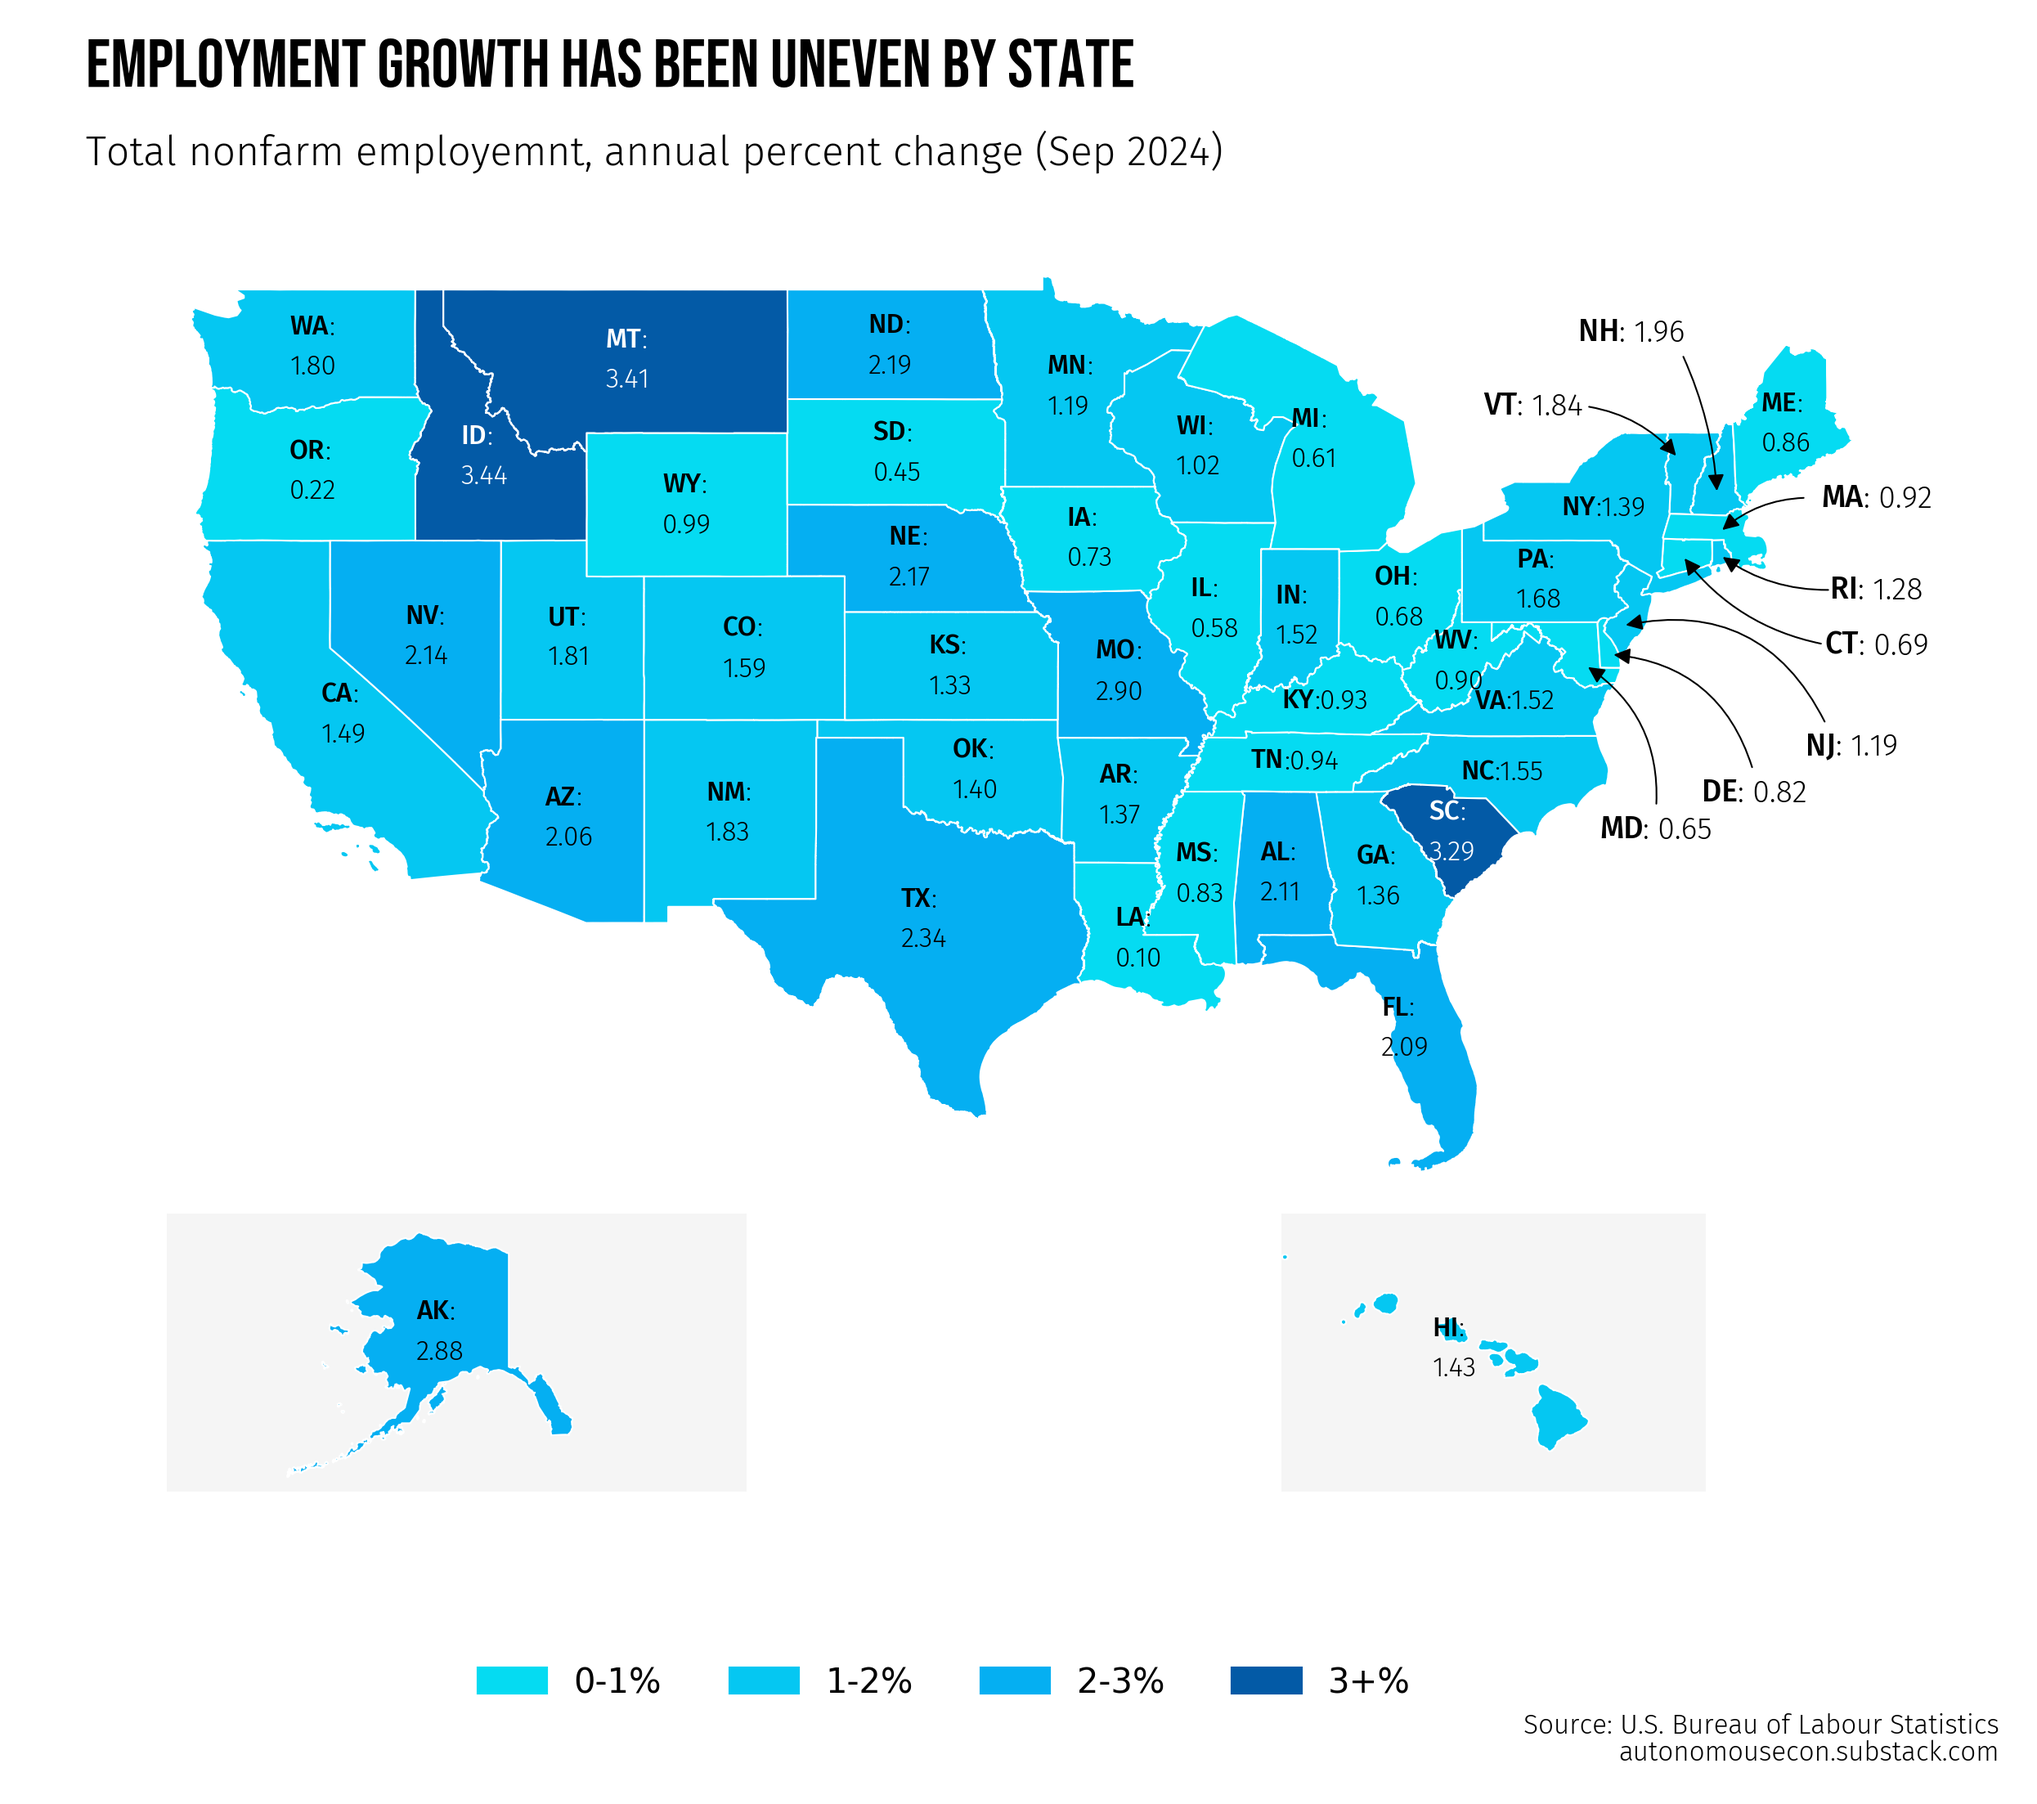
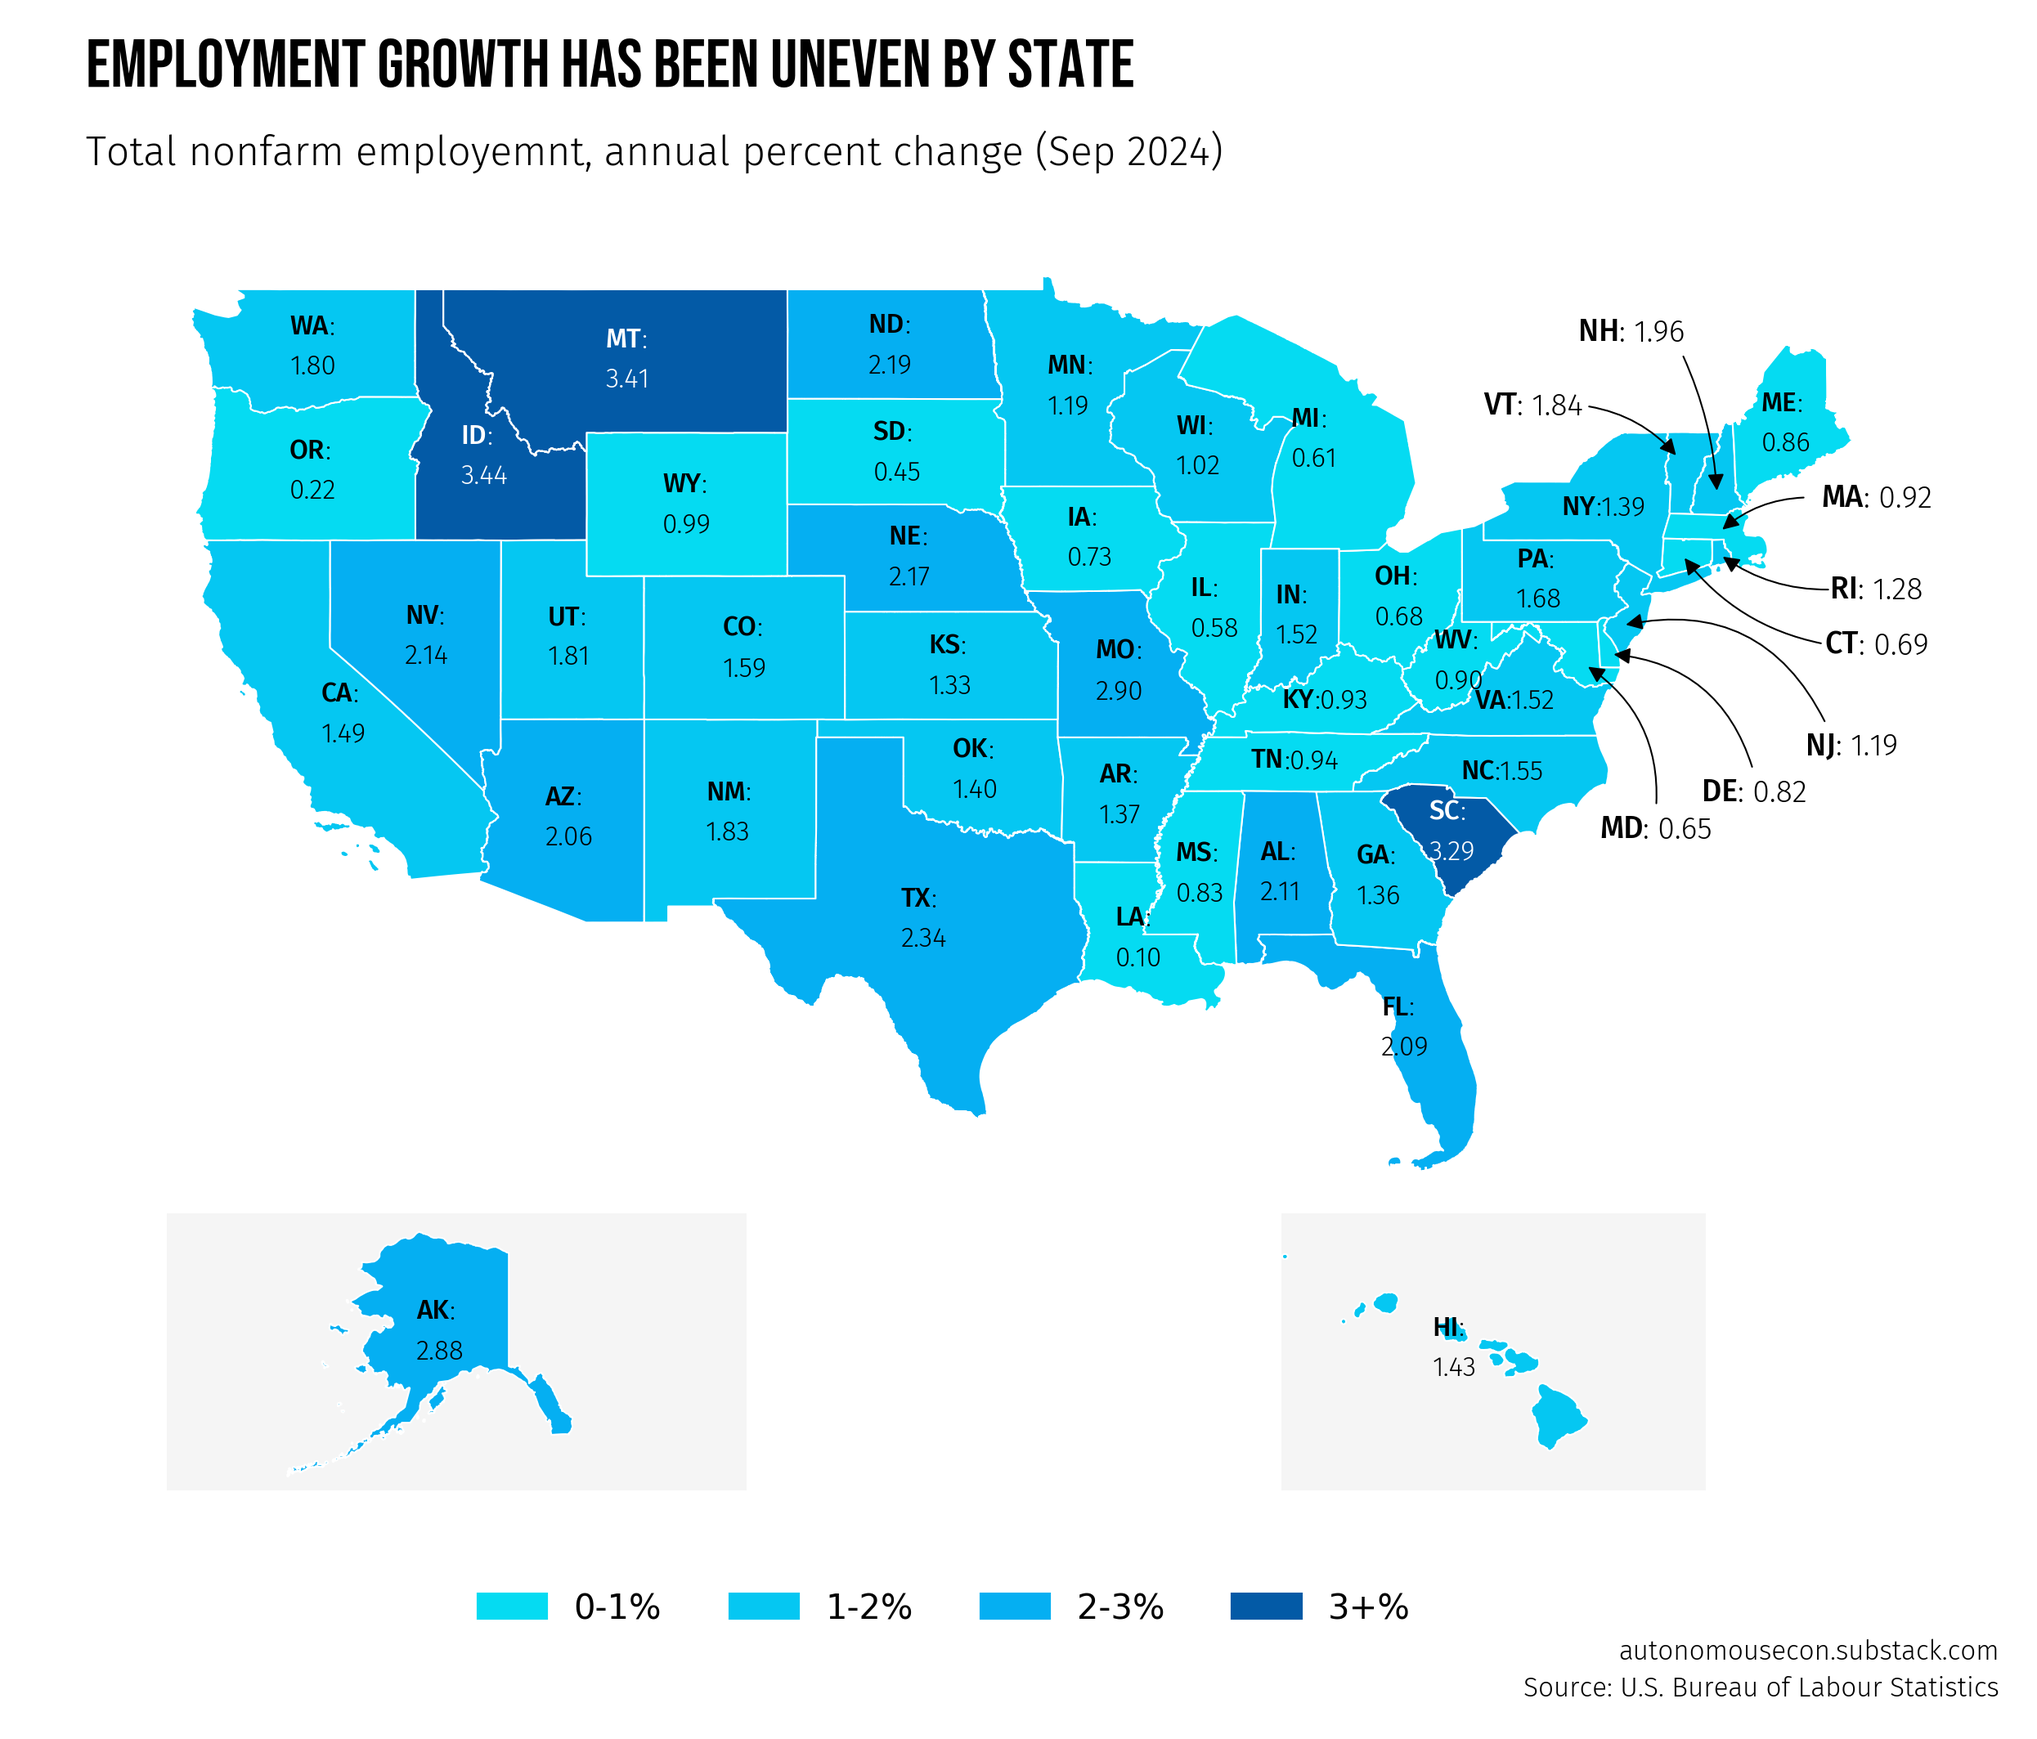
Update resizing of source and legend

diff --git a/vizualise.py b/vizualise.py
@@ -372,7 +372,7 @@ fig.legend(
     loc="lower center",
     bbox_to_anchor=(
         0.5,
-        -0.02,
+        0.02,
     ),  # Position the legend at the bottom center of the figure
     ncol=len(color_mapping),  # Arrange items in a single row
     frameon=False,
@@ -408,7 +408,7 @@ fig_text(
 fig_text(
     s="Source: U.S. Bureau of Labour Statistics",
     x=0.93,
-    y=-0.01,
+    y=0.01,
     color=text_color,
     fontsize=8,
     font=other_font,
@@ -421,7 +421,7 @@ fig_text(
 fig_text(
     s="autonomousecon.substack.com",
     x=0.93,
-    y=-0.025,
+    y=0.03,
     color=text_color,
     fontsize=8,
     font=other_font,
@@ -432,15 +432,12 @@ fig_text(
 
 # Adjust plot layout
 plt.subplots_adjust(hspace=0.04)
-plt.savefig("test", dpi=300, bbox_inches="tight")
+plt.savefig("employment_map", dpi=300, bbox_inches="tight")
 plt.show()
 
 
 # ToDO:
 # annotate extreme values only - add a annotate function that finds outliers.
-# Make font colour white for some states
 # offset the position slightly for some states
 # set background colour for the entire figure
-# Put number undeath the state letters in brackets
-# add title and sub title source and autonomousecon URL
 # make all lines of code commented
